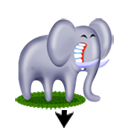
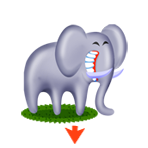
Images de la version finale Ajout d'un splashscreen (stylay :p) On peut maintenant sortir les pions des côtés n'importe où sur le plateau (il faut trouver la condition qui les restreint au bord)

Changed region(s): [[0.0938, 0.125, 0.9062, 1.0], [0.375, 0.4062, 0.4375, 0.5312], [0.4375, 0.5938, 0.4688, 0.625]]

diff --git a/trunk/gtk-siam/game.c b/trunk/gtk-siam/game.c
@@ -111,20 +111,18 @@ void ActionInGame(GtkWidget *pButton, MainWindow *pGame) {
 					
 				}
 				
-				else if(((((pGame->pBoardButton[number2]->x)-(pGame->pBoardButton[number]->x))>1)) || (((pGame->pBoardButton[number2]->x)-(pGame->pBoardButton[number]->x))<-1)) {
+				else if((((((pGame->pBoardButton[number2]->x)-(pGame->pBoardButton[number]->x))>1)) || (((pGame->pBoardButton[number2]->x)-(pGame->pBoardButton[number]->x))<-1)) && (number < 25 && ((number2 > 5) || (number2 < 20))) ) {
+					
+					gtk_statusbar_push(GTK_STATUSBAR(pGame->pStatusBar), 0, "Vous ne pouvez vous déplacer que d'une case par tour !");
+					
+				}+
+				else if((((((pGame->pBoardButton[number2]->y)-(pGame->pBoardButton[number]->y))>1)) || (((pGame->pBoardButton[number2]->y)-(pGame->pBoardButton[number]->y))<-1))) {
 					
 					gtk_statusbar_push(GTK_STATUSBAR(pGame->pStatusBar), 0, "Vous ne pouvez vous déplacer que d'une case par tour !");
 					
 				}
 				
-				else if(((((pGame->pBoardButton[number2]->y)-(pGame->pBoardButton[number]->y))>1)) || (((pGame->pBoardButton[number2]->y)-(pGame->pBoardButton[number]->y))<-1)) {
-					
-					gtk_statusbar_push(GTK_STATUSBAR(pGame->pStatusBar), 0, "Vous ne pouvez vous déplacer que d'une case par tour !");
-					
-				}
-				
-				else if((((pGame->pBoardButton[number2]->x)-(pGame->pBoardButton[number]->x))==1) 
-						&& ((pGame->pBoardButton[number2]->y)-(pGame->pBoardButton[number]->y))==1){
+				else if((((pGame->pBoardButton[number2]->x)-(pGame->pBoardButton[number]->x))==1) && ((pGame->pBoardButton[number2]->y)-(pGame->pBoardButton[number]->y))==1 && number < 25){
 					
 					gtk_statusbar_push(GTK_STATUSBAR(pGame->pStatusBar), 0, "Déplacement en diagonale interdit !"); 
 					
@@ -132,21 +130,21 @@ void ActionInGame(GtkWidget *pButton, MainWindow *pGame) {
 				
 	
 				else if((((pGame->pBoardButton[number2]->x)-(pGame->pBoardButton[number]->x))==1) 
-						&& ((pGame->pBoardButton[number2]->y)-(pGame->pBoardButton[number]->y))==-1){
+						&& ((pGame->pBoardButton[number2]->y)-(pGame->pBoardButton[number]->y))==-1 && number < 25){
 					
 					gtk_statusbar_push(GTK_STATUSBAR(pGame->pStatusBar), 0, "Déplacement en diagonale interdit !"); 
 					
 				}
 				
 				else if((((pGame->pBoardButton[number2]->x)-(pGame->pBoardButton[number]->x))==-1) 
-						&& ((pGame->pBoardButton[number2]->y)-(pGame->pBoardButton[number]->y))==1){
+						&& ((pGame->pBoardButton[number2]->y)-(pGame->pBoardButton[number]->y))==1 && number < 25){
 					
 					gtk_statusbar_push(GTK_STATUSBAR(pGame->pStatusBar), 0, "Déplacement en diagonale interdit !"); 
 					
 				}
 				
 				else if((((pGame->pBoardButton[number2]->x)-(pGame->pBoardButton[number]->x))==-1) 
-						&& ((pGame->pBoardButton[number2]->y)-(pGame->pBoardButton[number]->y))==-1){
+						&& ((pGame->pBoardButton[number2]->y)-(pGame->pBoardButton[number]->y))==-1 && number < 25){
 					
 					gtk_statusbar_push(GTK_STATUSBAR(pGame->pStatusBar), 0, "Déplacement en diagonale interdit !"); 
 					
@@ -157,43 +155,23 @@ void ActionInGame(GtkWidget *pButton, MainWindow *pGame) {
 					gtk_statusbar_push(GTK_STATUSBAR(pGame->pStatusBar), 0, "Rentrée sur le plateau impossible");
 					
 				}
-				
-				
-				 // JE VAIS MATTER HIMYM SI TU CONTINUES FUCKER :@ (style) // DOUBEL COMMENTAIRE LA CLASSE !!!! // TRIPLE KARAMELIT TRIPEUL C CA KI EST BON !!!
-				// OUAIS COMME LA BINOUSE, CE CODE IL EST BRASSÉ TROIS FOIS ! 
-				// ET COMME TA BITE AUSSI
-				// TOUT S'EXPLIQUE ALORS ! LA VIE JE LA COMPREND MAINTENANT, MERCI GABY DE M'AVOIR MONTRÉ LE CHEMIN DE LA VERITÉ
-				// TU ES SUR LE CHEMIN DE LA FOI (HAHA) TU VAS BIENTÔT POUVOIR RENCONTRER LE TOUT PUISSANT ET AVOIR LES 10000 VIERGES POUR TOI TOUT SEUL
-				// ATTENTION ELLE RESSEMBLENT FORCEMMENT TOUTES A UNE EX : J ESPERE QUE ILS ONT PAS CHOISI.... TU VOIS QUI... VOLDEMORT?
-				// QQCH COMMME çA OUI. G EU UNE EX BIEN (AU MOINS UNE POUR UNE VIE ?) DONC VOILA
-				// MS JLUI PARLE PLU JE PENSE QUE LE TOUT PUISSANT NACCEPTERA PAS
-				// JE SUIS BAISER PAR TOUT LES TROUS
-				// OUAIS EN PLUS ON VA T'EN FORER UN BIENTÔT DANS LA BOUCHE. J'ESPERE QU'ON VA PAS TE BAISER PAR LA AUSSI. CA FERAIT MAL
-				// MAL A MA FIERTÉ OUI, 
-				// BON GO HIMYM SEE YA JE VAIS PAS SUPPRIMER CA xD COMME CA ON VERRA SI SUCK-COCKS-SEGADO LÎT LE CODE :D
-				// C UN RISQUE A PRENDRE, JE PROPOSE QU ON CHECKE DEJA SI TIBO LIT LE CODE :D
-				// OUAIS YA MOYEN DE VERIFIER CA. EN CE MOMENT POUR LUI LA ROUTE EST SANGLANTE, IL DOIT EMPRUNTER LE CHEMIN BOUEUX A MON AVIS !
-				// DEGUEU MAIS VRAIMENT DEGUEU ! MAIS C FUN XD
-				// EN MÊME TEMPS ELLE VIENT DU LAOS DONC C'EST PAS COMME CI ELLE S'ETAIT JAMAIS FAIT VIOLER :D (HORRIBLE)
-				// OUI MODE GORE AU CARRE LA (COMME LA CLE TNT) D'AILLEURS YA JAMES BOND CE SOIR AVEC UNE VRAI JAMES BOND GIRL :D + SOPHIE MARCEAU (L)
-				// IL PUE CELUI LA BON JE TE KICKE DE MON ORDI TU FAIT CHIER
 
 				// Cas de l'échange, c'est à dire qu'on inverse deux pièces. Simple déplacement des pions en fait !
 				else if (pGame->pBoardButton[number2]->piece == 'n')  {
 
 
 					// C'est ici que l'on vérifie que le sens du pion est correctement enregistré pour permettre le déplacement
-					if((pGame->pBoardButton[number]->x - pGame->pBoardButton[number2]->x > 0) && (pGame->pBoardButton[number]->direction != 'l'))
-						gtk_statusbar_push(GTK_STATUSBAR(pGame->pStatusBar), 0, "Le pion n'est pas correctement orienté pour ce déplacement");
+					if((pGame->pBoardButton[number]->x - pGame->pBoardButton[number2]->x > 0) && (pGame->pBoardButton[number]->direction != 'l') && pGame->pBoardButton[number]->x != -1 && pGame->pBoardButton[number]->x != 5)
+						gtk_statusbar_push(GTK_STATUSBAR(pGame->pStatusBar), 0, "Le pion n'est pas correctement orienté pour ce déplacement !");
 
-					else if((pGame->pBoardButton[number]->x - pGame->pBoardButton[number2]->x < 0) && (pGame->pBoardButton[number]->direction != 'r'))
-						gtk_statusbar_push(GTK_STATUSBAR(pGame->pStatusBar), 0, "Le pion n'est pas correctement orienté pour ce déplacement");
+					else if((pGame->pBoardButton[number]->x - pGame->pBoardButton[number2]->x < 0) && (pGame->pBoardButton[number]->direction != 'r') && pGame->pBoardButton[number]->x != -1 && pGame->pBoardButton[number]->x != 5)
+						gtk_statusbar_push(GTK_STATUSBAR(pGame->pStatusBar), 0, "Le pion n'est pas correctement orienté pour ce déplacement !");
 
-					else if((pGame->pBoardButton[number]->y - pGame->pBoardButton[number2]->y > 0) && (pGame->pBoardButton[number]->direction != 't'))
-						gtk_statusbar_push(GTK_STATUSBAR(pGame->pStatusBar), 0, "Le pion n'est pas correctement orienté pour ce déplacement");
+					else if((pGame->pBoardButton[number]->y - pGame->pBoardButton[number2]->y > 0) && (pGame->pBoardButton[number]->direction != 't') && pGame->pBoardButton[number]->x != -1 && pGame->pBoardButton[number]->x != 5)
+						gtk_statusbar_push(GTK_STATUSBAR(pGame->pStatusBar), 0, "Le pion n'est pas correctement orienté pour ce déplacement !");
 
-					else if((pGame->pBoardButton[number]->y - pGame->pBoardButton[number2]->y < 0) && (pGame->pBoardButton[number]->direction != 'b'))
-						gtk_statusbar_push(GTK_STATUSBAR(pGame->pStatusBar), 0, "Le pion n'est pas correctement orienté pour ce déplacement");
+					else if((pGame->pBoardButton[number]->y - pGame->pBoardButton[number2]->y < 0) && (pGame->pBoardButton[number]->direction != 'b') && pGame->pBoardButton[number]->x != -1 && pGame->pBoardButton[number]->x != 5)
+						gtk_statusbar_push(GTK_STATUSBAR(pGame->pStatusBar), 0, "Le pion n'est pas correctement orienté pour ce déplacement !");
 
 					else
 					 {

diff --git a/trunk/gtk-siam/init.c b/trunk/gtk-siam/init.c
@@ -34,8 +34,7 @@ void CreateGameWindow(MainWindow *pGame){
 	pGame->pWindow = gtk_window_new (GTK_WINDOW_TOPLEVEL);
 	gtk_window_set_position(GTK_WINDOW(pGame->pWindow), GTK_WIN_POS_CENTER);
 	gtk_window_set_title(GTK_WINDOW(pGame->pWindow), "GTK Siam - Plateau");
-	gtk_window_set_default_size(GTK_WINDOW(pGame->pWindow), 1000, 800);
-	//gtk_window_set_resizable(GTK_WINDOW(pGame->pWindow), FALSE);
+	gtk_window_set_default_size(GTK_WINDOW(pGame->pWindow), 1000, 80E);
 	
 	g_signal_connect(pGame->pWindow, "destroy", G_CALLBACK (OnQuitBtn), pGame);
 
@@ -60,7 +59,9 @@ void CreateGameWindow(MainWindow *pGame){
 	gdk_color_parse("#E8E8E8", &pGame->white_clicked);
 	
 	// Créa#endif
-
+	// Loading de l'image de welcome
+	pGame->pStartImage = gtk_image_new_from_file("/splashscreen.png");
+	
 s separator
 	for(i=0;i<2;i++){
 		pGame->pSeparator[i] = gtk_vseparator_new();
@@ -230,12 +231,12 @@ pGame_toolbar_insert_stock(GTK_TOOLBAR(pGame->pToolbar), GTK_STOCK_SAVE, "Enregi
 	// VBox
 	pGame->pVBox = gtk_vbox_new(FALSE, 0);
 	
-	//Vboxes 1 et 2
+	//Vboxes 1 t 2
 	
 	pGame->pVBox1 = gtk_vbox_new(FALSE, 0);
 	pGame->pVBox2 = gtk_vbox_new(FALSE, 0);
 	
-	// Hbox qui contient la totalité des boxes
+	// Hbox qui contient la totalité desboxes
 	
 	pGame->pHBox = gtk_hbox_new(FALSE, 0);
 
@@ -247,14 +248,14 @@ pGame_toolbar_insert_stock(GTK_TOOLBAR(pGame->pToolbar), GTK_STOCK_SAVE, "Enregi
 
 	// Fenêtre pGame
 	
-	// VBox
+// VBox
 	
 	gtk_box_pack_start(GTK_BOX(pGame->pVBox), pGame->pMenuBar, FALSE, FALSE, 0);
 	gtk_box_pack_start(GTK_BOX(pGame->pVBox), pGame->pToolbar, FALSE, FALSE, 0);
 	gtk_box_pack_start(GTK_BOX(pGame->pVBox), pGame->pHBox, TRUE, TRUE, 0);
 	gtk_box_pack_start(GTK_BOX(pGame->pVBox), pGame->pStatusBar, FALSE, TRUE, 0);
 	
-	//5 boutons dans VBox1 et 5 boutons dans VBox 2 (de part et d'autre de la table)
+	//5 boutons dans VBox1 et 5 boutons dans VBox 2 (de part et d'autre dela table)
 	
 	gtk_box_pack_start(GTK_BOX(pGame->pVBox1), pGame->pBoardButton[25]->button, TRUE, TRUE, 0);
 	gtk_box_pack_start(GTK_BOX(pGame->pVBox1), pGame->pBoardButton[26]->button, TRUE, TRUE, 0);
@@ -266,16 +267,9 @@ pGame_toolbar_insert_stock(GTK_TOOLBAR(pGame->pToolbar), GTK_STOCK_SAVE, "Enregi
 	gtk_box_pack_start(GTK_BOX(pGame->pVBox2), pGame->pBoardButton[31]->button, TRUE, TRUE, 0);
 	gtk_box_pack_start(GTK_BOX(pGame->pVBox2), pGame->pBoardButton[32]->button, TRUE, TRUE, 0);
 	gtk_box_pack_start(GTK_BOX(pGame->pVBox2), pGame->pBoardButton[33]->button, TRUE, TRUE, 0);
-	gtk_box_pack_start(GTK_BOX(pGame->pVBox2), pGame->pBoardButton[34]->button, TRUE, TRUE, 0);
-	
-	
-	//Hbox
-	
-	gtk_box_pack_start(GTK_BOX(pGame->pHBox), pGame->pVBox1, FALSE, FALSE, 0);
-	gtk_box_pack_start(GTK_BOX(pGame->pHBox), pGame->pSeparator[0], FALSE, FALSE, 15);
-	gtk_box_pack_start(GTK_BOX(pGame->pHBox), pGame->pTable, TRUE, TRUE, 0);
-	gtk_box_pack_start(GTK_BOX(pGame->pHBox), pGame->pSeparator[1], FALSE, FALSE, 15);
-	gtk_box_pack_start(GTK_BOX(pGame->pHBox), pGame->pVBox2, FALSE, FALSE, 0);
+	gtk_box_pack_start(GTK_BOX(pGame->pVBox2), pGame->pBoardButton[34]->button, TRUE	// HBox
+	// On y colle une image
+	gtk_box_pack_start(GTK_BOX(pGame->pHBox), pGame->pStartImage, TRUE, TRUE, 0);LSE, FALSE, 0);
 	
 
 	// Accrochage de la VBox dans la fenêtre

diff --git a/trunk/gtk-siam/newgame.c b/trunk/gtk-siam/newgame.c
@@ -123,6 +123,17 @@ void InitGame(GtkWidget *pButton, MainWindow *pGame) {
 		for(i = 0; i < 35; i++) {
 		g_signal_connect(G_OBJECT(pGame->pBoardButton[i]->button), "clicked", G_CALLBACK(ActionInGame), pGame);
 		}
+		
+		//Hbox
+		gtk_container_remove(GTK_CONTAINER(pGame->pHBox), pGame->pStartImage);
+		gtk_box_pack_start(GTK_BOX(pGame->pHBox), pGame->pVBox1, FALSE, FALSE, 0);
+		gtk_box_pack_start(GTK_BOX(pGame->pHBox), pGame->pSeparator[0], FALSE, FALSE, 15);
+		gtk_box_pack_start(GTK_BOX(pGame->pHBox), pGame->pTable, TRUE, TRUE, 0);
+		gtk_box_pack_start(GTK_BOX(pGame->pHBox), pGame->pSeparator[1], FALSE, FALSE, 15);
+		gtk_box_pack_end(GTK_BOX(pGame->pHBox), pGame->pVBox2, FALSE, FALSE, 0);
+		
+		gtk_widget_show_all(pGame->pWindow);
+		
 		pGame->first_init = FALSE;
 	}
 	

diff --git a/trunk/gtk-siam/main.c b/trunk/gtk-siam/main.c
@@ -10,13 +10,7 @@
 
 int main (int argc, char **argv)
 {
-
-	
-	/* Constants pour les deux systèmes (juste au cas-où on en ai besoin ;) */
 #ifdef __APPLE__
-	CFBundleRef mainBundle;
-	// Get the main bundle for the app
-	mainBundle = CFBundleGetMainBundle();
 #endif
 	
 #ifdef WIN32

diff --git a/trunk/gtk-siam/library.h b/trunk/gtk-siam/library.h
@@ -57,6 +57,8 @@ struct _MainWindow
 	GtkWidget *pHBox;
 
 	GtkWidget *pSeparator[2];
+	
+	GtkWidget *pStartImage;
 
 
 	/* Fenêtre "Nouvelle partie" */
